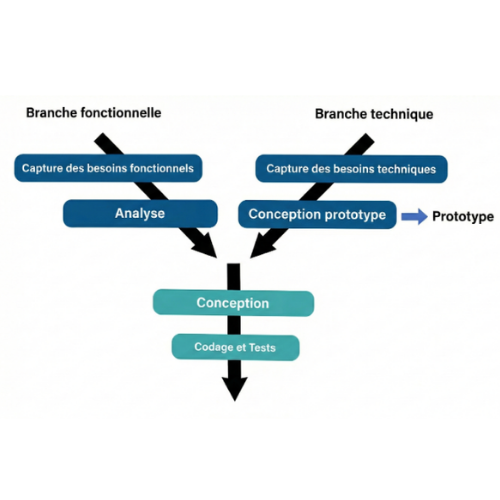
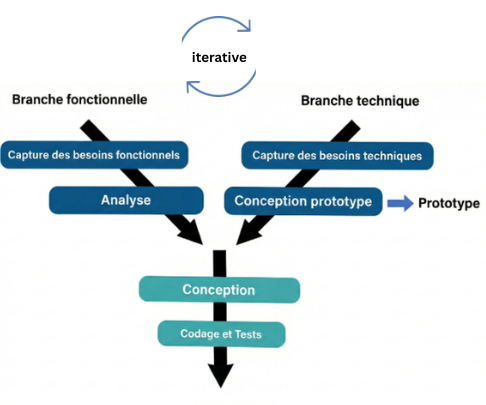
v3

diff --git a/mini-ecommerce/resources/views/admin/partials/row.blade.php b/mini-ecommerce/resources/views/admin/partials/row.blade.php
@@ -1,44 +1,49 @@
-<tr class="hover:bg-gray-50 transition" id="row-{{ $product->id }}">
-  <td class="px-6 py-4 whitespace-nowrap text-sm text-gray-800">
-      @if($product->image_url)
-        <img src="{{ asset('images/' . $product->image_url) }}" class="h-10 w-10 rounded-full object-cover" alt="{{ $product->name }}">
-      @else
-        <div class="h-10 w-10 rounded-full bg-gray-200 flex items-center justify-center text-gray-500">
-            <i data-lucide="image" class="w-5 h-5"></i>
-        </div>
-      @endif
-  </td>
-  <td class="px-6 py-4 whitespace-nowrap text-sm font-bold text-gray-800">
-    {{ $product->name }}
-  </td>
-  <td class="px-6 py-4 whitespace-nowrap text-sm text-gray-800">
-    <span class="inline-flex items-center px-2.5 py-0.5 rounded-full text-xs font-medium bg-green-100 text-green-800">
-      {{ number_format($product->price, 2) }} $
-    </span>
-  </td>
-    <td class="px-6 py-4 text-sm text-gray-600 max-w-xs truncate">
-    @foreach($product->categories as $category)
-      <span class="inline-flex items-center px-2.5 py-0.5 rounded-full text-xs font-medium bg-gray-100 text-gray-800">
-        {{ $category->label }}
-      </span>
-    @endforeach
-  </td>
-  <td class="px-6 py-4 text-sm text-gray-600 max-w-xs truncate">
-    {{ $product->description }}
-  </td>
-  <td class="px-6 py-4 whitespace-nowrap text-end text-sm font-medium">
-    <div class="flex justify-end gap-x-3">
-
-      <button type="button" 
-              @click="editProduct({{ Js::from($product) }})"
-              class="text-indigo-500 hover:text-indigo-900 font-semibold">
-      <i data-lucide="pencil" class="w-5 cursor-pointer"></i>  
-      </button>
-      <button type="button" 
-              @click="confirmDelete({{ $product->id }})"
-              class="text-red-500 hover:text-red-800 font-semibold">
-        <i data-lucide="trash-2" class="w-5 cursor-pointer"></i>  
-      </button>
-    </div>
-  </td>
-</tr>
+                <tbody id="product-table-body" 
+                       class="divide-y divide-gray-200 bg-white transition-opacity duration-200"
+                       :class="isLoading ? 'opacity-50 pointer-events-none' : ''">
+                    <template x-for="product in products" :key="product.id">
+                        <tr class="hover:bg-gray-50 transition" :id="'row-' + product.id">
+                            <td class="px-6 py-4 whitespace-nowrap text-sm text-gray-800">
+                                <template x-if="product.image_url">
+                                    <img :src="'/images/' + product.image_url" class="h-10 w-10 rounded-full object-cover" :alt="product.name">
+                                </template>
+                                <template x-if="!product.image_url">
+                                    <div class="h-10 w-10 rounded-full bg-gray-200 flex items-center justify-center text-gray-500">
+                                        <i data-lucide="image" class="w-5 h-5"></i>
+                                    </div>
+                                </template>
+                            </td>
+                            <td class="px-6 py-4 whitespace-nowrap text-sm font-bold text-gray-800" x-text="product.name"></td>
+                            <td class="px-6 py-4 whitespace-nowrap text-sm text-gray-800">
+                                <span class="inline-flex items-center px-2.5 py-0.5 rounded-full text-xs font-medium bg-green-100 text-green-800"
+                                      x-text="new Number(product.price).toLocaleString(undefined, {minimumFractionDigits: 2, maximumFractionDigits: 2}) + ' $'">
+                                </span>
+                            </td>
+                            <td class="px-6 py-4 text-sm text-gray-600 max-w-xs truncate">
+                                <div class="flex flex-wrap gap-1">
+                                    <template x-for="cat in (product.categories || [])" :key="cat.id">
+                                        <span class="inline-flex items-center px-2.5 py-0.5 rounded-full text-xs font-medium bg-gray-100 text-gray-800" x-text="cat.label"></span>
+                                    </template>
+                                </div>
+                            </td>
+                            <td class="px-6 py-4 text-sm text-gray-600 max-w-xs truncate" x-text="product.description || ''"></td>
+                            <td class="px-6 py-4 whitespace-nowrap text-end text-sm font-medium">
+                                <div class="flex justify-end gap-x-3">
+                                    <button type="button" @click="editProduct(product)" class="text-indigo-500 hover:text-indigo-900 font-semibold">
+                                        <i data-lucide="pencil" class="size-4"></i>
+                                    </button>
+                                    <button type="button" @click="confirmDelete(product.id)" class="text-red-500 hover:text-red-800 font-semibold">
+                                        <i data-lucide="trash-2" class="size-4"></i>
+                                    </button>
+                                </div>
+                            </td>
+                        </tr>
+                    </template>
+                    <template x-if="products.length === 0 && !isLoading">
+                        <tr>
+                            <td colspan="6" class="px-6 py-10 text-center text-gray-500">
+                                {{ __('views.no_products_found') ?? 'No products found.' }}
+                            </td>
+                        </tr>
+                    </template>
+                </tbody>

diff --git a/mini-ecommerce/resources/views/admin/partials/index.blade.php b/mini-ecommerce/resources/views/admin/partials/index.blade.php
@@ -95,55 +95,7 @@
                         <th scope="col" class="px-6 py-3 text-right text-xs font-semibold text-gray-500 uppercase tracking-wider">{{ __('views.actions') }}</th>
                     </tr>
                 </thead>
-                <tbody id="product-table-body" 
-                       class="divide-y divide-gray-200 bg-white transition-opacity duration-200"
-                       :class="isLoading ? 'opacity-50 pointer-events-none' : ''">
-                    <template x-for="product in products" :key="product.id">
-                        <tr class="hover:bg-gray-50 transition" :id="'row-' + product.id">
-                            <td class="px-6 py-4 whitespace-nowrap text-sm text-gray-800">
-                                <template x-if="product.image_url">
-                                    <img :src="'/images/' + product.image_url" class="h-10 w-10 rounded-full object-cover" :alt="product.name">
-                                </template>
-                                <template x-if="!product.image_url">
-                                    <div class="h-10 w-10 rounded-full bg-gray-200 flex items-center justify-center text-gray-500">
-                                        <i data-lucide="image" class="w-5 h-5"></i>
-                                    </div>
-                                </template>
-                            </td>
-                            <td class="px-6 py-4 whitespace-nowrap text-sm font-bold text-gray-800" x-text="product.name"></td>
-                            <td class="px-6 py-4 whitespace-nowrap text-sm text-gray-800">
-                                <span class="inline-flex items-center px-2.5 py-0.5 rounded-full text-xs font-medium bg-green-100 text-green-800"
-                                      x-text="new Number(product.price).toLocaleString(undefined, {minimumFractionDigits: 2, maximumFractionDigits: 2}) + ' $'">
-                                </span>
-                            </td>
-                            <td class="px-6 py-4 text-sm text-gray-600 max-w-xs truncate">
-                                <div class="flex flex-wrap gap-1">
-                                    <template x-for="cat in (product.categories || [])" :key="cat.id">
-                                        <span class="inline-flex items-center px-2.5 py-0.5 rounded-full text-xs font-medium bg-gray-100 text-gray-800" x-text="cat.label"></span>
-                                    </template>
-                                </div>
-                            </td>
-                            <td class="px-6 py-4 text-sm text-gray-600 max-w-xs truncate" x-text="product.description || ''"></td>
-                            <td class="px-6 py-4 whitespace-nowrap text-end text-sm font-medium">
-                                <div class="flex justify-end gap-x-3">
-                                    <button type="button" @click="editProduct(product)" class="text-indigo-500 hover:text-indigo-900 font-semibold">
-                                        <i data-lucide="pencil" class="size-4"></i>
-                                    </button>
-                                    <button type="button" @click="confirmDelete(product.id)" class="text-red-500 hover:text-red-800 font-semibold">
-                                        <i data-lucide="trash-2" class="size-4"></i>
-                                    </button>
-                                </div>
-                            </td>
-                        </tr>
-                    </template>
-                    <template x-if="products.length === 0 && !isLoading">
-                        <tr>
-                            <td colspan="6" class="px-6 py-10 text-center text-gray-500">
-                                {{ __('views.no_products_found') ?? 'No products found.' }}
-                            </td>
-                        </tr>
-                    </template>
-                </tbody>
+                @include('admin.partials.row')
             </table>
         </div>
 

diff --git a/README.md b/README.md
@@ -35,8 +35,6 @@ style: |
     border-radius: 8px;
 
   }
- 
-
 ---
 
 
@@ -50,18 +48,28 @@ style: |
 
 ---
 
-### Waterfall 
+## Travail à faire
+
+**Développer l'Application Mini E-Commerce (Product/Categories)**
+
+* **Partie Publique :** Interface permettant aux visiteurs de consulter les produits et leurs catégories. 
+    * **Fonctionnalités :** pagination (10 produits/page).
+* **Partie Admin :** Tableau de bord sécurisé pour la gestion complète du catalogue (CRUD). 
+    * **Fonctionnalités :** Modales pour l’ajout et l’édition d'éléments, intégration de AJAX - Alpine.js pour les mises à jour asynchrones (sans rechargement de page).
+
+---
+## Waterfall 
 
 ![w:900 Waterfall](images/Waterfall.png)
 
 ---
-# Contexte 
+## Contexte 
 
 ![w:500 2TUP](images/2TUP.png)
 
 
 ---
-# Exigences - Analyse Technique
+## Exigences - Analyse Technique
 
 ### Les Technologies a Utiliser (parte 1)
 1. Base de donnee : Mysql 
@@ -81,20 +89,34 @@ style: |
 
 ---
 
-### Analyse - Fonctionnalités
+## Analyse - Fonctionnalités
 
 
 ![w:1150 usecase](images/usecase.png)
 
 ---
 
-### Conception 
+## Conception 
 
 ![w:1050 diagramme de class](images/diagramme_class.png)
 
 ---
 
-### Sujet - Live coding
+## Sujet - Live coding
 
 - Un bouton “Ajouter” qui ouvre une modale pour créer un nouvel élément.
 - Une barre de recherche filtrant des éléments par titre.
+
+---
+
+## Versions
+
+| Version | Branch name | code version | 
+| :--- | :--- | :--- | 
+| v1 : Public side | public |  | 
+| v2 : Admin side | admin | prototype-admin , live-coding-admin |
+| v3 : Authontification / Authorization (Gates)| gates ||
+| v4 : SPA (Ajax - Alpine.js) | Ajax - Alpine.js | prototype-ajax , live-coding-ajax | 
+| v5 : Spatie Authoresation | spatie | live-coding-spatie | 
+| v6 : API | api |  |
+| v7 : Mobile | mobile | |
